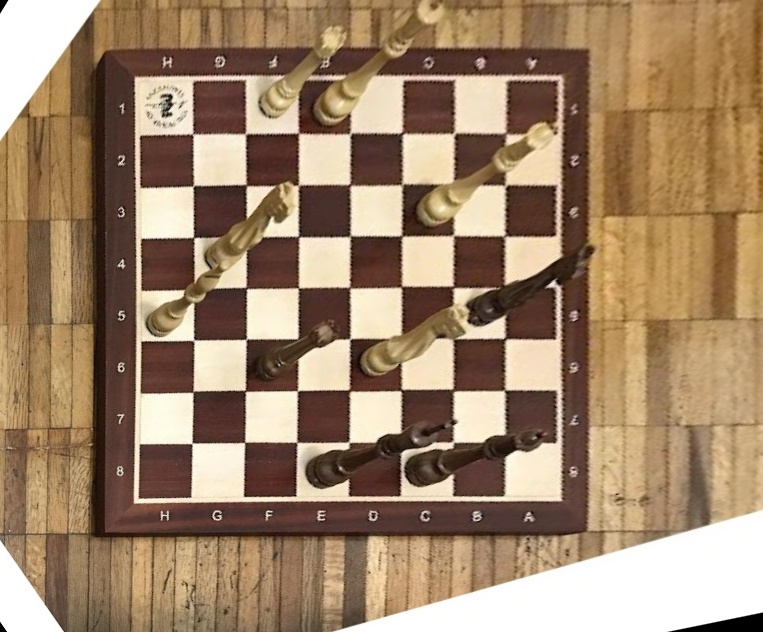
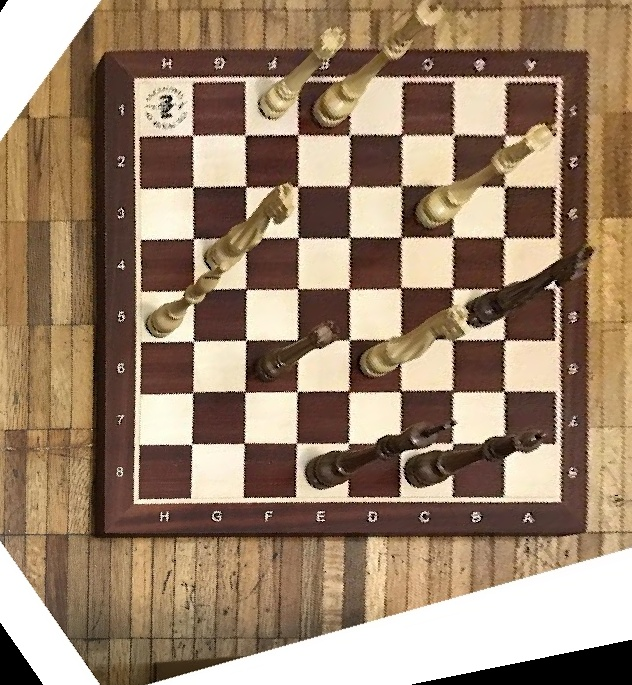
Functions

diff --git a/Practica_02/corrección_imagenes.py b/Practica_02/corrección_imagenes.py
@@ -13,6 +13,41 @@ imagen_modelo = cv2.imread('Ajedrez_Ortogonal.jpg')
 #cv2.waitKey(0)
 #cv2.destroyAllWindows()
 
+
+# Función para hacer la transformación
+
+def warp_perspective(image, H, output_size):
+    
+
+    # Obtener las dimensiones de la imagen de entrada
+    height, width = image.shape[:2] 
+
+    # Crear una matriz para la imagen de salida con tipo de dato np.uint8
+    output_image = np.zeros((output_size[0], output_size[1], 3), dtype=np.uint8)
+
+    # Calcular la inversa de la matriz de transformación
+    H_inv = np.linalg.inv(H)
+
+    for y_out in range(output_size[0]):
+        for x_out in range(output_size[1]):
+            
+            # Mapear las coordenadas (x_out, y_out) de la imagen de salida a la imagen de entrada
+            point_in = np.dot(H_inv, np.array([x_out, y_out, 1]))
+
+            # Normalizar las coordenadas
+            point_in /= point_in[2]
+
+            x_in, y_in = point_in[:2].astype(int)
+
+            # Verificar si las coordenadas mapeadas están dentro de los límites de la imagen de entrada
+            if 0 <= x_in < width and 0 <= y_in < height:
+                output_image[y_out, x_out] = image[y_in, x_in]
+
+    return output_image
+
+
+
+
 # Puntos de referencia de la imagen modelo (Ajedres_Ortogonal.jpg)
 puntos_model = np.array([
     [140, 85],
@@ -61,16 +96,14 @@ print("H = ")
 print(H)
 
 # Aplicar la transformación perspectiva utilizando la matriz H
-imagen_corregida = cv2.warpPerspective(imagen_proyectada, H, (imagen_proyectada.shape[1], imagen_proyectada.shape[0]))
+imagen_corregida = warp_perspective(imagen_proyectada, H, (imagen_modelo.shape[1], imagen_modelo.shape[0]))
 
 # Guardar la imagen ortogonal resultante
 cv2.imwrite('Imagen_corregida.jpg', imagen_corregida)
 
-
-
 alpha = 0.5
 
-imagen_modelo = cv2.resize(imagen_modelo, (imagen_proyectada.shape[1], imagen_proyectada.shape[0]))
+imagen_modelo = cv2.resize(imagen_modelo, (imagen_corregida.shape[1], imagen_corregida.shape[0]))
 
 overlapped_images = cv2.addWeighted(imagen_corregida, alpha, imagen_modelo, 1 - alpha, 0)
 
